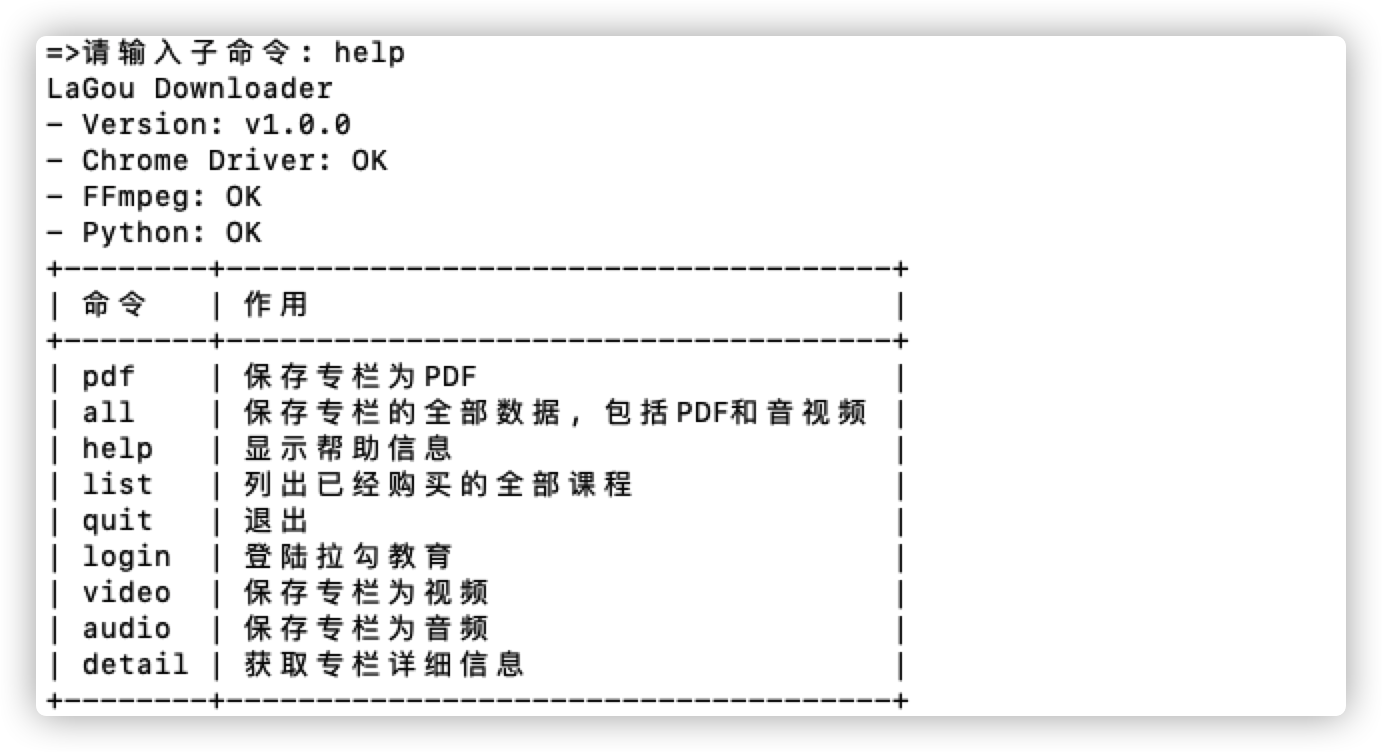
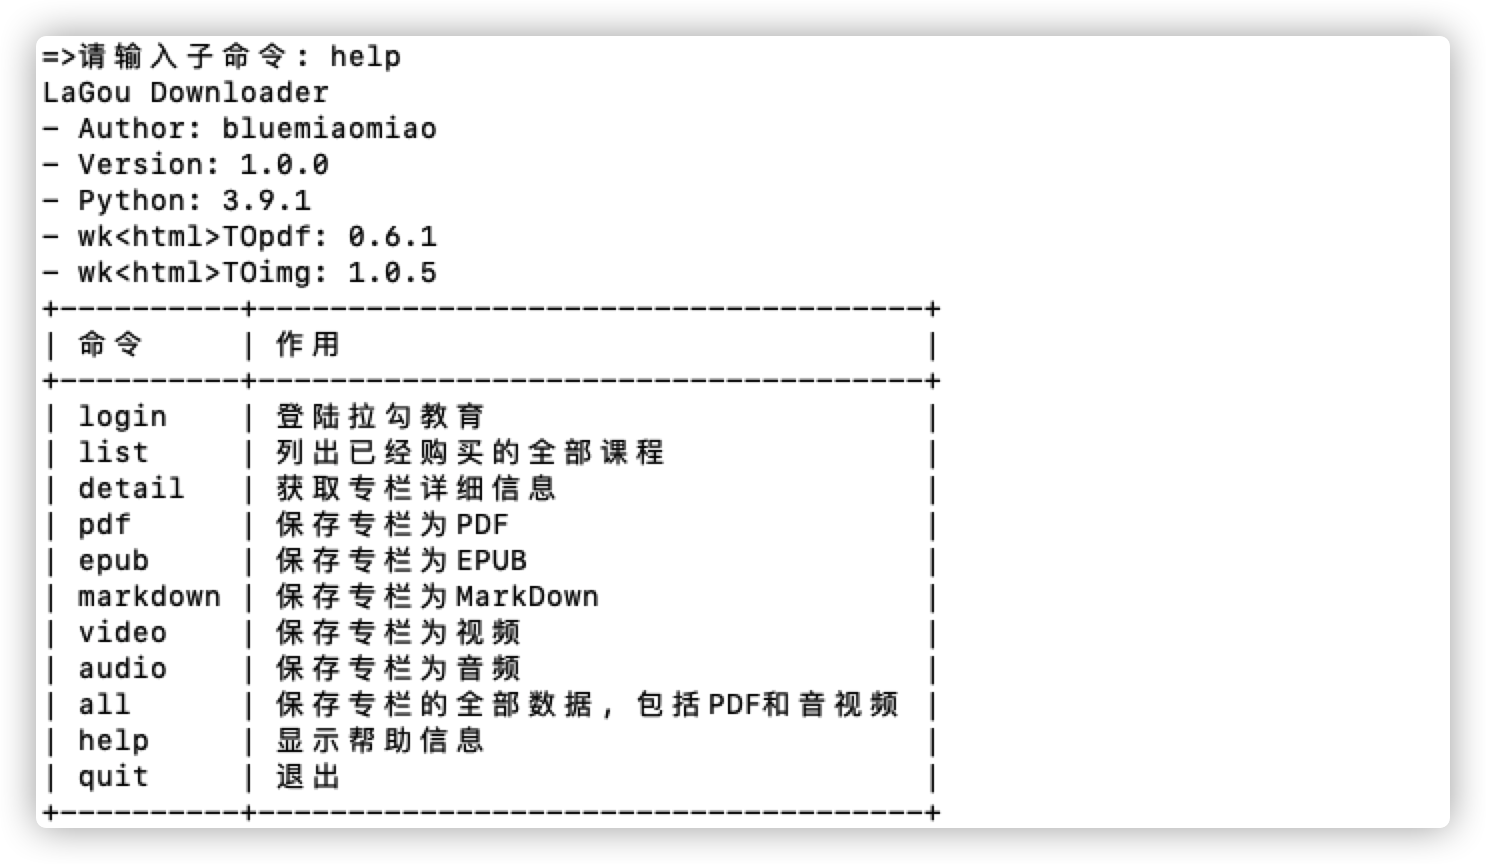
修复README图片错误

Changed region(s): [[0.0311, 0.0306, 0.9645, 0.9787], [0.4978, 0.3364, 0.6534, 0.367], [0.3423, 0.3364, 0.4667, 0.367]]

diff --git a/main.py b/main.py
@@ -102,7 +102,7 @@ class App:
         print("LaGou Downloader")
         print("- Author: " + __author__)
         print("- Version: " + __version__)
-        print("- Python: " + sys.version)
+        print("- Python: " + str(sys.version_info[0]) + '.' + str(sys.version_info[1]) + '.' + str(sys.version_info[2]))
         print("- wk<html>TOpdf: " + pdfkit.__version__)
         print("- wk<html>TOimg: " + imgkit.__version__)
 
